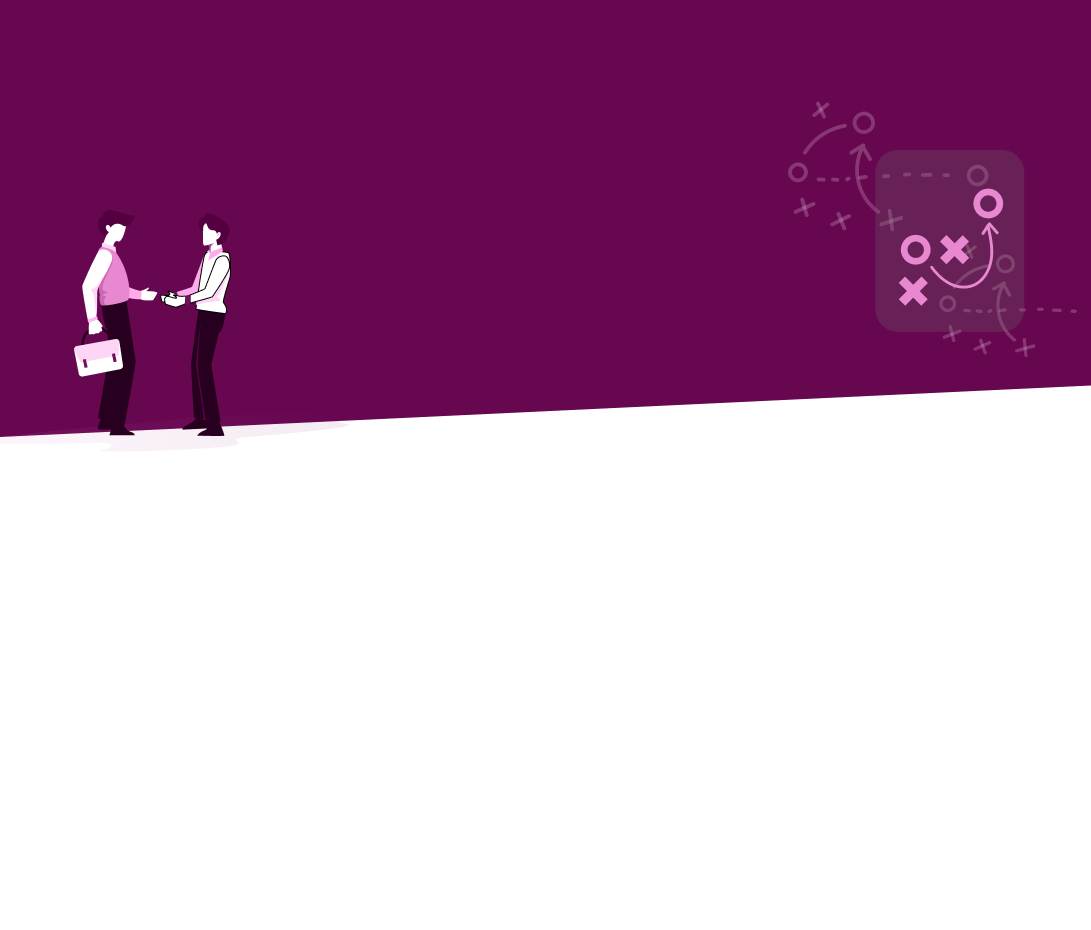
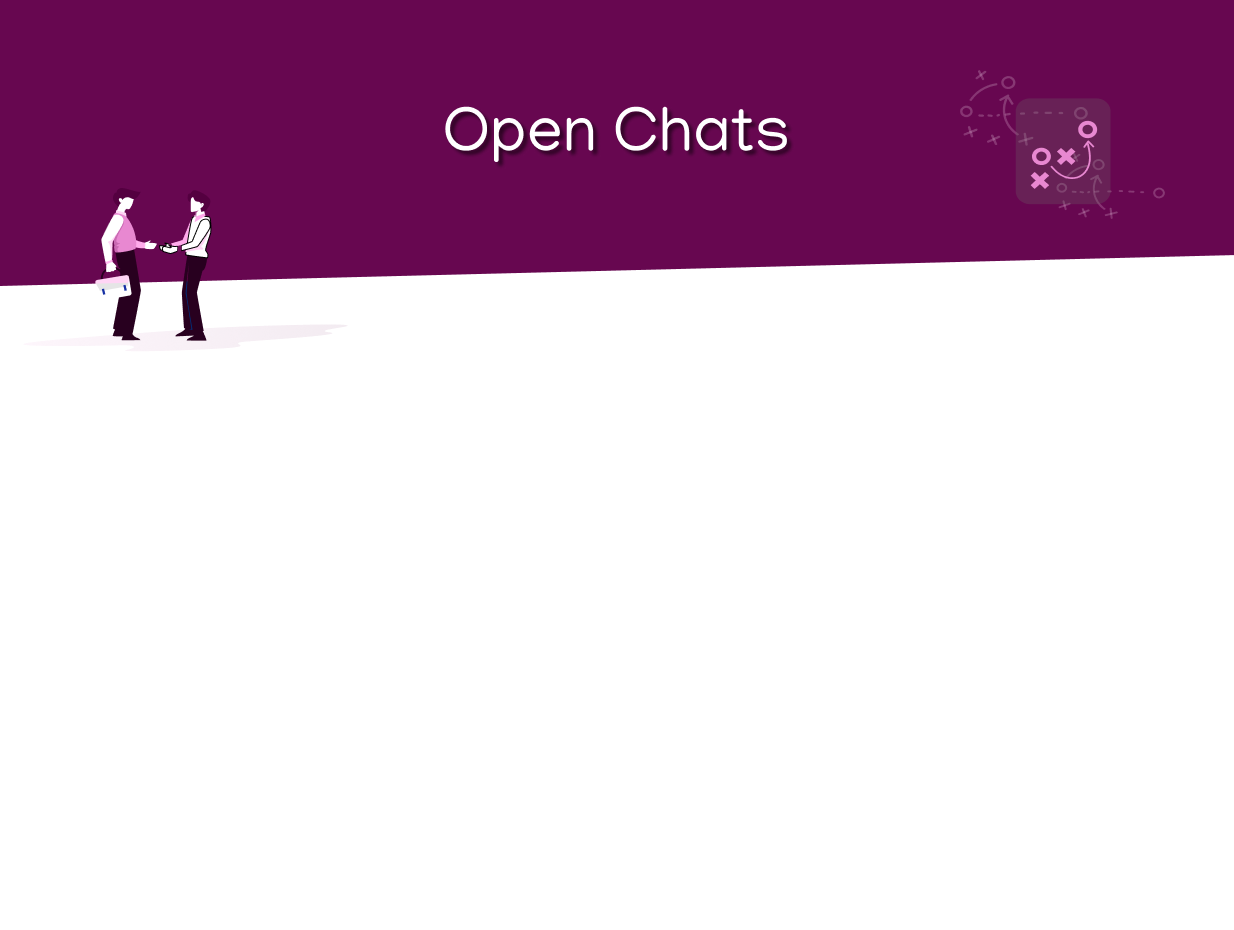
designed and added navbar header image for open chat

Changed region(s): [[0.0, 0.0935, 1.0, 0.4677], [0.3428, 0.0935, 0.6544, 0.1871]]

diff --git a/app/website/templates/open_chats.html b/app/website/templates/open_chats.html
@@ -1,4 +1,5 @@
 {% extends 'base.html' %}
+{% load static %}
 
 {% block content %}
 <!DOCTYPE html>
@@ -24,45 +25,100 @@
     .card.mb-3:hover{
         background-color: #c7d4e7;
     }
+    img{
+        position: absolute;
+        left:0;
+        top:80px;
+    }
 
 </style>
 
 </head>
+
 <body>
-        <!-- <h2>Open Chats</h2> -->
-        <div>
-            {% load static %}
-            <img src="{% static 'navpic.png' %}" alt="navpic" width="1090" height="930">
-        </div>
+    <h2>Open Chats</h2>
 
-
+        {% load static %}
+        <img src="{% static 'navpic.png' %}" alt="navpic" width="1263" height="970" >
 
         {% for chat in chats %}
-            <div class="card mb-3" style="max-width: 54" >
+            <div class="card mb-3" style="max-width: 54;top:400px" >
                 {% if chat.receiver.id == chat.sender.id %}
 
                 <span class="close">&times;</span>
 
 
-            <a class="nav-link name" href="/chat/{{ chat.receiver.username }}"><h3>{{ chat.receiver.username }}</h3>
-             {% else %}
-
-             {% if chat.sender.id == user.id %}
-
-             <a class="nav-link name" href="/chat/{{ chat.receiver.username }}"><h3>{{ chat.receiver.username }}</h3>
-
+                <a class="nav-link name" href="/chat/{{ chat.receiver.username }}"><h3>{{ chat.receiver.username }}</h3>
                 {% else %}
 
-                <a class="nav-link name" href="/chat/{{ chat.sender.username }}"><h3>{{ chat.sender.username }}</h3>
-
-                {% endif %}
-                {% endif %}
                 {% if chat.sender.id == user.id %}
-            <p>You: {{ chat.content }}</p></a>
-            {% else %}
-            <p>{{chat.sender.username}} : {{ chat.content }}</p></a>
-            {% endif %}
+
+                <a class="nav-link name" href="/chat/{{ chat.receiver.username }}"><h3>{{ chat.receiver.username }}</h3>
+
+                    {% else %}
+
+                    <a class="nav-link name" href="/chat/{{ chat.sender.username }}"><h3>{{ chat.sender.username }}</h3>
+
+                    {% endif %}
+                    {% endif %}
+                    {% if chat.sender.id == user.id %}
+                <p>You: {{ chat.content }}</p></a>
+                {% else %}
+                <p>{{chat.sender.username}} : {{ chat.content }}</p></a>
+                {% endif %}
             </div>
+
+            <div class="card mb-3" style="max-width: 54;top:400px" >
+                {% if chat.receiver.id == chat.sender.id %}
+
+                <span class="close">&times;</span>
+
+
+                <a class="nav-link name" href="/chat/{{ chat.receiver.username }}"><h3>{{ chat.receiver.username }}</h3>
+                {% else %}
+
+                {% if chat.sender.id == user.id %}
+
+                <a class="nav-link name" href="/chat/{{ chat.receiver.username }}"><h3>{{ chat.receiver.username }}</h3>
+
+                    {% else %}
+
+                    <a class="nav-link name" href="/chat/{{ chat.sender.username }}"><h3>{{ chat.sender.username }}</h3>
+
+                    {% endif %}
+                    {% endif %}
+                    {% if chat.sender.id == user.id %}
+                <p>You: {{ chat.content }}</p></a>
+                {% else %}
+                <p>{{chat.sender.username}} : {{ chat.content }}</p></a>
+                {% endif %}
+            </div>
+            <div class="card mb-3" style="max-width: 54;top:400px" >
+                {% if chat.receiver.id == chat.sender.id %}
+
+                <span class="close">&times;</span>
+
+
+                <a class="nav-link name" href="/chat/{{ chat.receiver.username }}"><h3>{{ chat.receiver.username }}</h3>
+                {% else %}
+
+                {% if chat.sender.id == user.id %}
+
+                <a class="nav-link name" href="/chat/{{ chat.receiver.username }}"><h3>{{ chat.receiver.username }}</h3>
+
+                    {% else %}
+
+                    <a class="nav-link name" href="/chat/{{ chat.sender.username }}"><h3>{{ chat.sender.username }}</h3>
+
+                    {% endif %}
+                    {% endif %}
+                    {% if chat.sender.id == user.id %}
+                <p>You: {{ chat.content }}</p></a>
+                {% else %}
+                <p>{{chat.sender.username}} : {{ chat.content }}</p></a>
+                {% endif %}
+            </div>
+
 
         {% endfor %}
 
